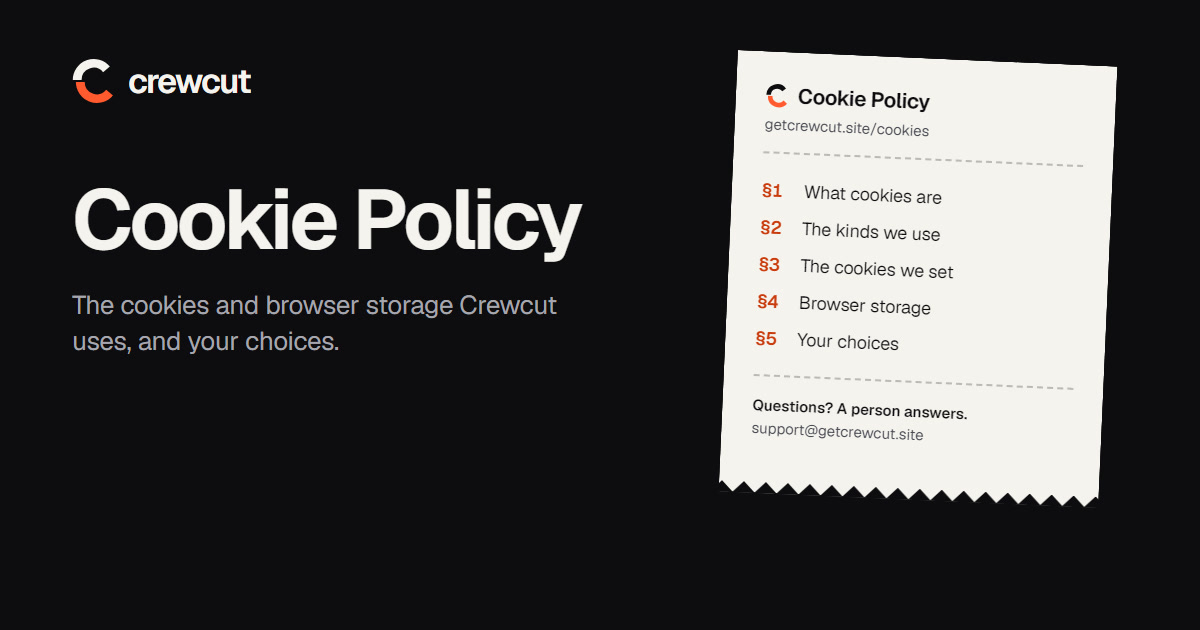
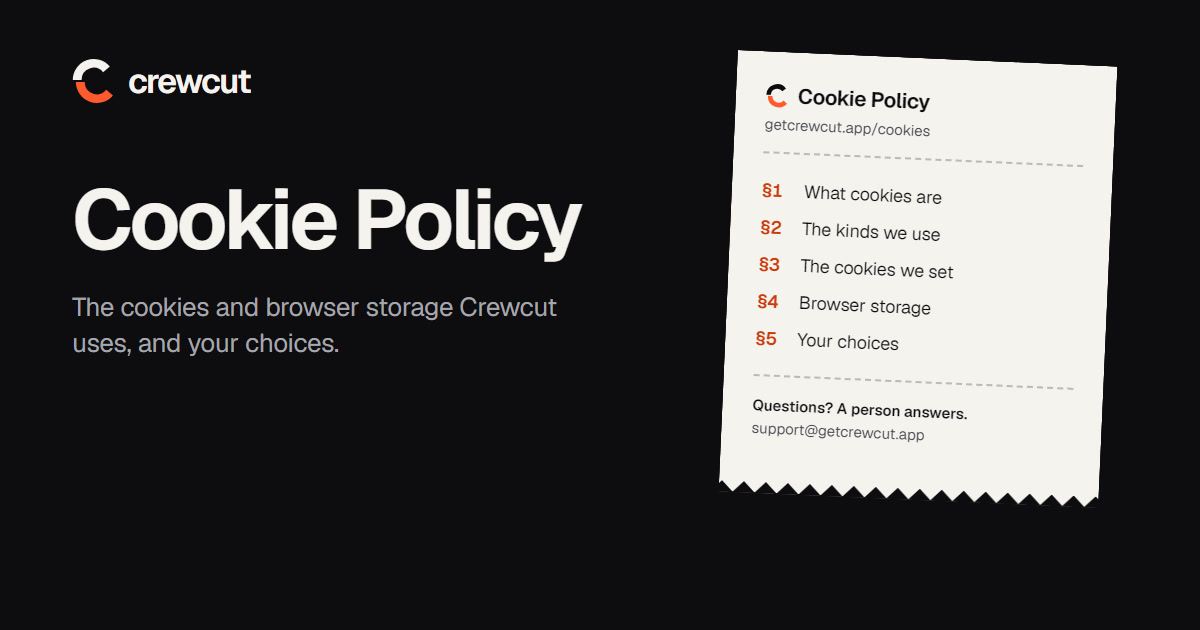
chore: move to the getcrewcut.app domain
Site URL, support address and canonical/OG links (legal-info.ts), the
Worker's custom domain, APP_URL, BETTER_AUTH_URL and YouTube redirect URI,
and the legal cover images that print the address.

Changed region(s): [[0.0617, 0.4524, 0.4625, 0.573], [0.7092, 0.181, 0.7708, 0.2111], [0.74, 0.6635, 0.7708, 0.6937]]

diff --git a/apps/studio/app/components/landing/legal/legal-info.ts b/apps/studio/app/components/landing/legal/legal-info.ts
@@ -7,9 +7,9 @@ export const LEGAL = {
   product: "Crewcut",
   operator: "Victory Lucky",
   country: "Nigeria",
-  email: "support@getcrewcut.site",
-  site: "https://getcrewcut.site",
-  host: "getcrewcut.site",
+  email: "support@getcrewcut.app",
+  site: "https://getcrewcut.app",
+  host: "getcrewcut.app",
   minimumAge: 16,
 } as const;
 
